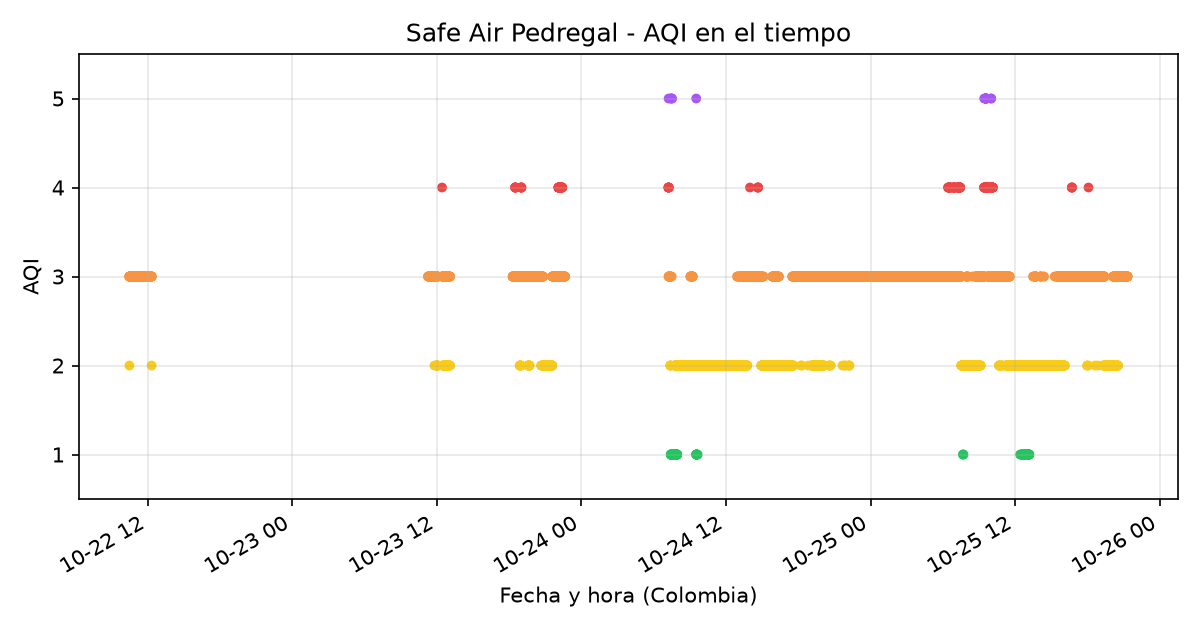
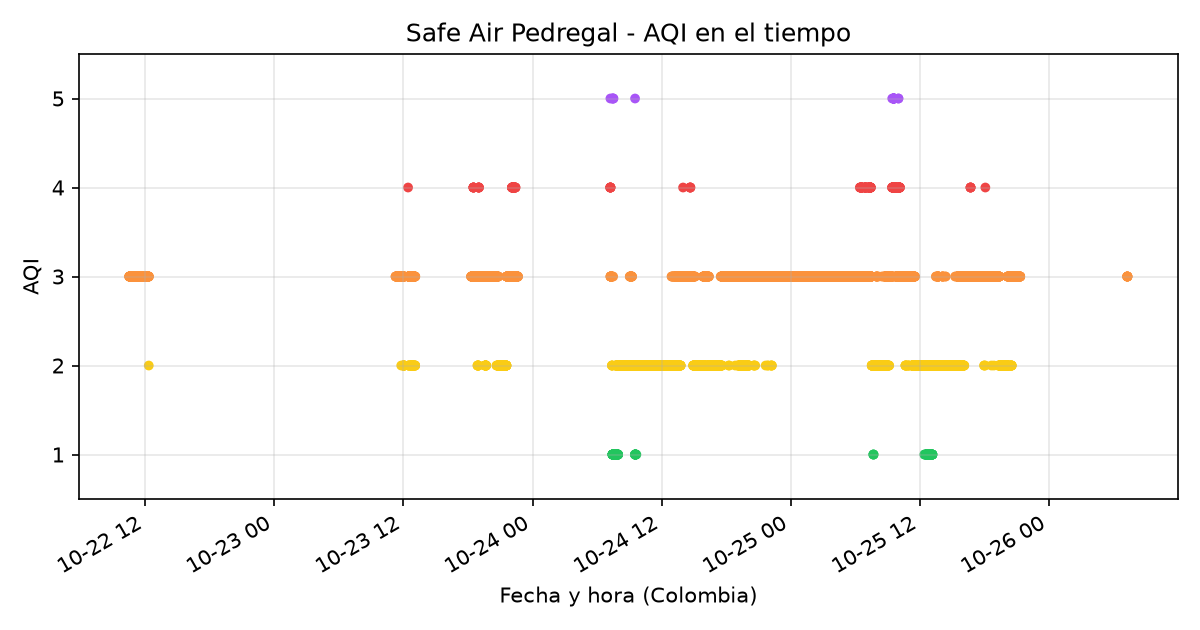
Actualizar gráficos de dispersión

diff --git a/resultados/resumen.md b/resultados/resumen.md
@@ -1,17 +1,17 @@
 # Resumen del análisis - Safe Air Pedregal
 
-Generado: 2026-10-26 03:23 (hora del servidor)
+Generado: 2026-10-26 12:18 (hora del servidor)
 Canal ThingSpeak: 3399651
-Lecturas con AQI: 8000  |  Lecturas con COV y eCO2: 2034
-Periodo: 2026-10-22 10:27 a 2026-10-25 21:20
+Lecturas con AQI: 8000  |  Lecturas con COV y eCO2: 2033
+Periodo: 2026-10-22 10:29 a 2026-10-26 07:18
 
 ## Distribución del AQI
 
 | AQI | Lecturas | % |
 |---|---|---|
 | 1 Excelente | 157 | 2.0 |
-| 2 Bueno | 2766 | 34.6 |
-| 3 Moderado | 4865 | 60.8 |
+| 2 Bueno | 2765 | 34.6 |
+| 3 Moderado | 4866 | 60.8 |
 | 4 Deficiente | 190 | 2.4 |
 | 5 Insalubre | 22 | 0.3 |
 
@@ -19,8 +19,8 @@ Periodo: 2026-10-22 10:27 a 2026-10-25 21:20
 
 - Correlación de Pearson (r): 0.869
 - Correlación de Spearman: 1.000
-- Regresión lineal: eCO2 = 0.466 x COV + 609.5
+- Regresión lineal: eCO2 = 0.466 x COV + 609.6
 - R²: 0.755
 - Interpretación: correlación fuerte positiva entre COV y eCO2.
-- COV: media 312.3 ppb, rango 0 a 2811
-- eCO2: media 754.9 ppm, rango 400 a 1363
+- COV: media 312.4 ppb, rango 0 a 2811
+- eCO2: media 755.0 ppm, rango 400 a 1363
